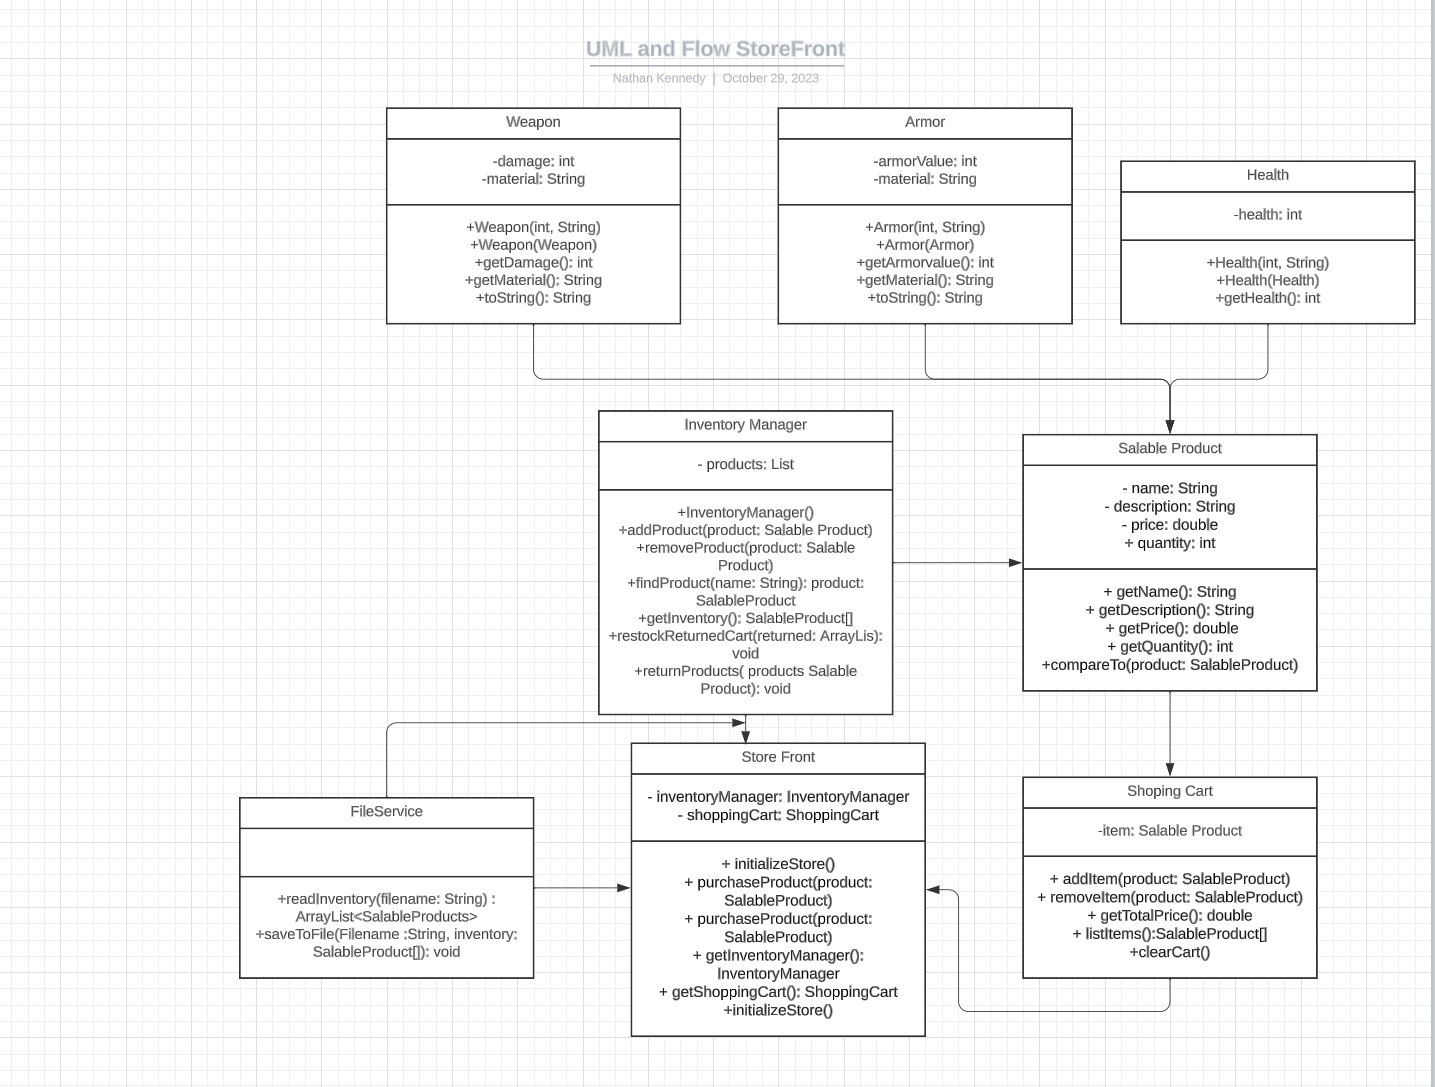
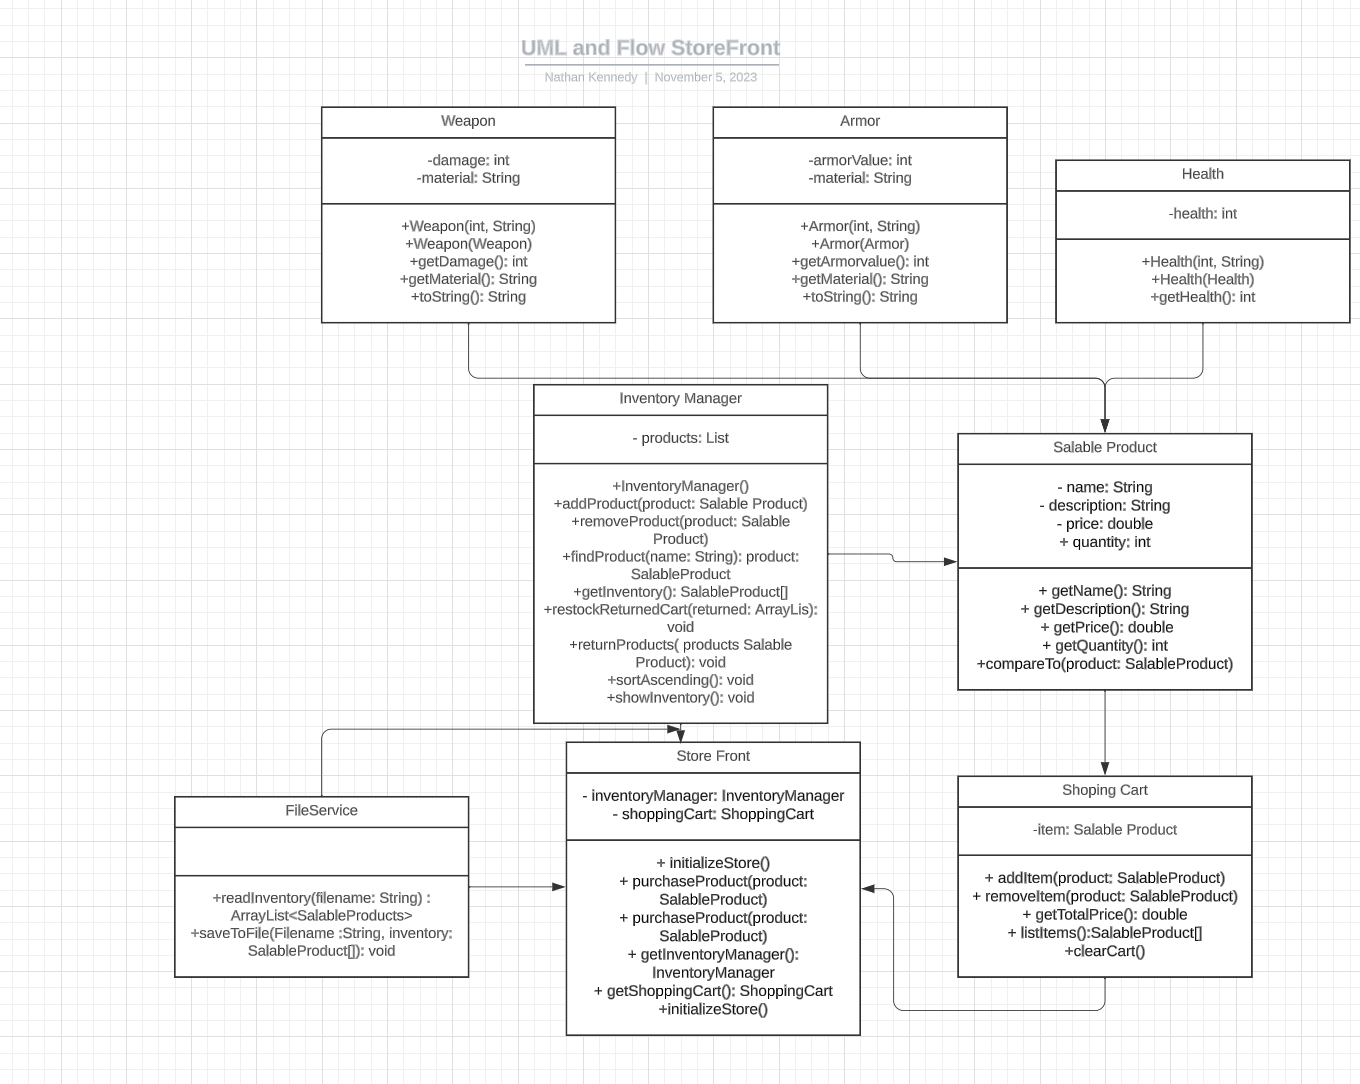
Add files via upload

diff --git a/InventoryManager.html b/InventoryManager.html
@@ -1,11 +1,11 @@
 <!DOCTYPE HTML>
 <html lang="en">
 <head>
-<!-- Generated by javadoc (17) on Sun Oct 29 20:15:17 MST 2023 -->
+<!-- Generated by javadoc (17) on Sun Nov 05 19:24:12 MST 2023 -->
 <title>InventoryManager</title>
 <meta name="viewport" content="width=device-width, initial-scale=1">
 <meta http-equiv="Content-Type" content="text/html; charset=utf-8">
-<meta name="dc.created" content="2023-10-29">
+<meta name="dc.created" content="2023-11-05">
 <meta name="description" content="declaration: package: app, class: InventoryManager">
 <meta name="generator" content="javadoc/ClassWriterImpl">
 <link rel="stylesheet" type="text/css" href="../stylesheet.css" title="Style">
@@ -133,6 +133,12 @@ loadScripts(document, 'script');</script>
 <div class="col-first even-row-color method-summary-table method-summary-table-tab2 method-summary-table-tab4"><code>void</code></div>
 <div class="col-second even-row-color method-summary-table method-summary-table-tab2 method-summary-table-tab4"><code><a href="#saveInventory()" class="member-name-link">saveInventory</a>()</code></div>
 <div class="col-last even-row-color method-summary-table method-summary-table-tab2 method-summary-table-tab4">&nbsp;</div>
+<div class="col-first odd-row-color method-summary-table method-summary-table-tab2 method-summary-table-tab4"><code>void</code></div>
+<div class="col-second odd-row-color method-summary-table method-summary-table-tab2 method-summary-table-tab4"><code><a href="#showStock()" class="member-name-link">showStock</a>()</code></div>
+<div class="col-last odd-row-color method-summary-table method-summary-table-tab2 method-summary-table-tab4">&nbsp;</div>
+<div class="col-first even-row-color method-summary-table method-summary-table-tab2 method-summary-table-tab4"><code>void</code></div>
+<div class="col-second even-row-color method-summary-table method-summary-table-tab2 method-summary-table-tab4"><code><a href="#sortAscending()" class="member-name-link">sortAscending</a>()</code></div>
+<div class="col-last even-row-color method-summary-table method-summary-table-tab2 method-summary-table-tab4">&nbsp;</div>
 </div>
 </div>
 </div>
@@ -173,6 +179,18 @@ loadScripts(document, 'script');</script>
 <dt>Throws:</dt>
 <dd><code><a href="https://docs.oracle.com/en/java/javase/17/docs/api/java.base/java/io/IOException.html" title="class or interface in java.io" class="external-link">IOException</a></code></dd>
 </dl>
+</section>
+</li>
+<li>
+<section class="detail" id="sortAscending()">
+<h3>sortAscending</h3>
+<div class="member-signature"><span class="modifiers">public</span>&nbsp;<span class="return-type">void</span>&nbsp;<span class="element-name">sortAscending</span>()</div>
+</section>
+</li>
+<li>
+<section class="detail" id="showStock()">
+<h3>showStock</h3>
+<div class="member-signature"><span class="modifiers">public</span>&nbsp;<span class="return-type">void</span>&nbsp;<span class="element-name">showStock</span>()</div>
 </section>
 </li>
 <li>

diff --git a/package-tree.html b/package-tree.html
@@ -1,11 +1,11 @@
 <!DOCTYPE HTML>
 <html lang="en">
 <head>
-<!-- Generated by javadoc (17) on Sun Oct 29 20:15:17 MST 2023 -->
+<!-- Generated by javadoc (17) on Sun Nov 05 19:24:12 MST 2023 -->
 <title>app Class Hierarchy</title>
 <meta name="viewport" content="width=device-width, initial-scale=1">
 <meta http-equiv="Content-Type" content="text/html; charset=utf-8">
-<meta name="dc.created" content="2023-10-29">
+<meta name="dc.created" content="2023-11-05">
 <meta name="description" content="tree: package: app">
 <meta name="generator" content="javadoc/PackageTreeWriter">
 <link rel="stylesheet" type="text/css" href="../stylesheet.css" title="Style">

diff --git a/package-use.html b/package-use.html
@@ -1,11 +1,11 @@
 <!DOCTYPE HTML>
 <html lang="en">
 <head>
-<!-- Generated by javadoc (17) on Sun Oct 29 20:15:17 MST 2023 -->
+<!-- Generated by javadoc (17) on Sun Nov 05 19:24:12 MST 2023 -->
 <title>Uses of Package app</title>
 <meta name="viewport" content="width=device-width, initial-scale=1">
 <meta http-equiv="Content-Type" content="text/html; charset=utf-8">
-<meta name="dc.created" content="2023-10-29">
+<meta name="dc.created" content="2023-11-05">
 <meta name="description" content="use: package: app">
 <meta name="generator" content="javadoc/PackageUseWriter">
 <link rel="stylesheet" type="text/css" href="../stylesheet.css" title="Style">

diff --git a/package-summary.html b/package-summary.html
@@ -1,11 +1,11 @@
 <!DOCTYPE HTML>
 <html lang="en">
 <head>
-<!-- Generated by javadoc (17) on Sun Oct 29 20:15:17 MST 2023 -->
+<!-- Generated by javadoc (17) on Sun Nov 05 19:24:12 MST 2023 -->
 <title>app</title>
 <meta name="viewport" content="width=device-width, initial-scale=1">
 <meta http-equiv="Content-Type" content="text/html; charset=utf-8">
-<meta name="dc.created" content="2023-10-29">
+<meta name="dc.created" content="2023-11-05">
 <meta name="description" content="declaration: package: app">
 <meta name="generator" content="javadoc/PackageWriterImpl">
 <link rel="stylesheet" type="text/css" href="../stylesheet.css" title="Style">

diff --git a/InventoryManager.java b/InventoryManager.java
@@ -26,6 +26,22 @@ public class InventoryManager<E extends SalableProduct> {
 			FileService<SalableProduct> fileService = new FileService<SalableProduct>();
 			this.products = (ArrayList<E>) fileService.readInventoryJson("inventory.json");
 		}
+	    //sorts products in ascending order
+	    public void sortAscending()
+		{
+			this.products.sort(null); 
+		}
+	    //shows the inventory in ascending order
+	    public void showStock()
+		{
+			this.sortAscending();
+			System.out.println("----------STOCK----------");
+			for(int i = 0; i < this.products.size(); i++)
+			{
+				System.out.println(this.products.get(i).toString());
+				System.out.println("-----------------------------------------------------");
+			}
+		}
 	    //uses loop set to the size of the product list to return the list of products
 	    public SalableProduct[] getInventory()
 		{
